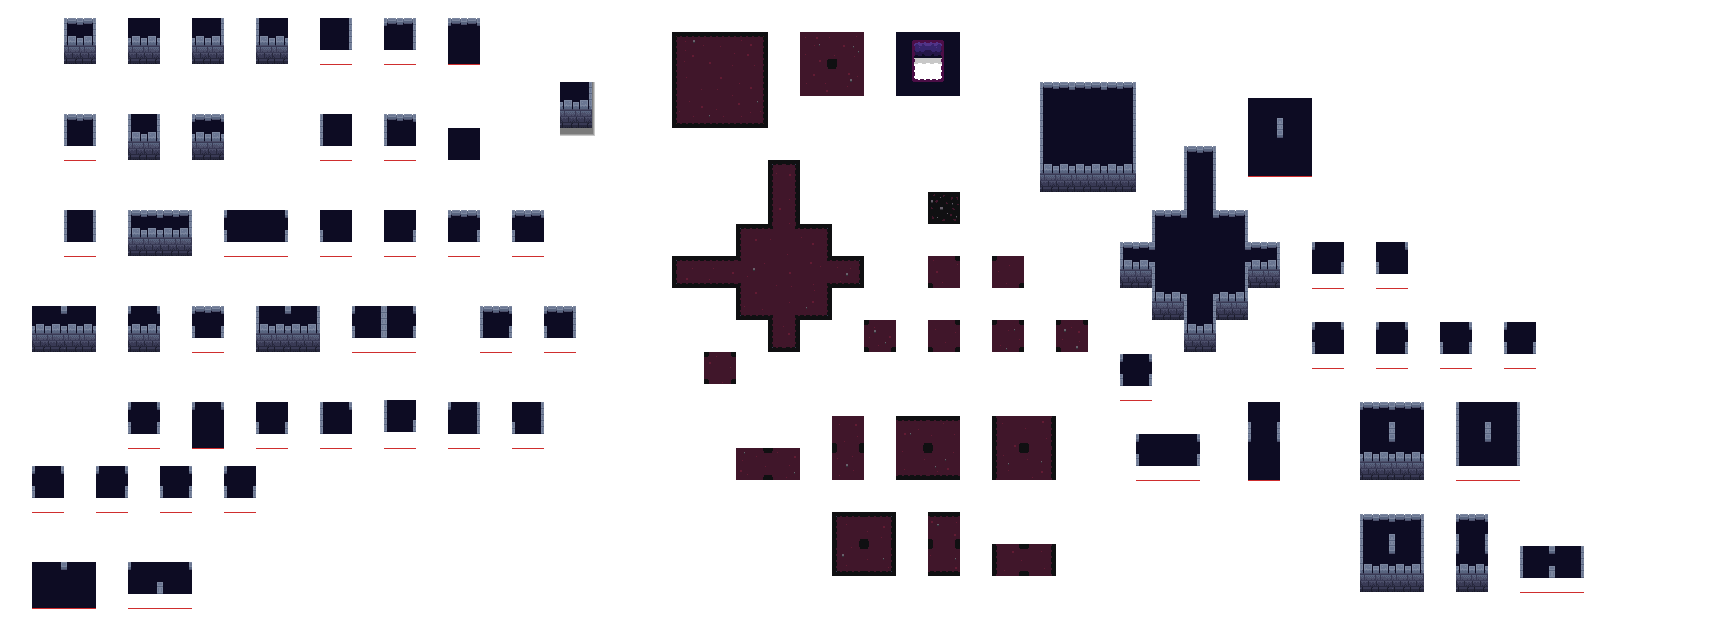
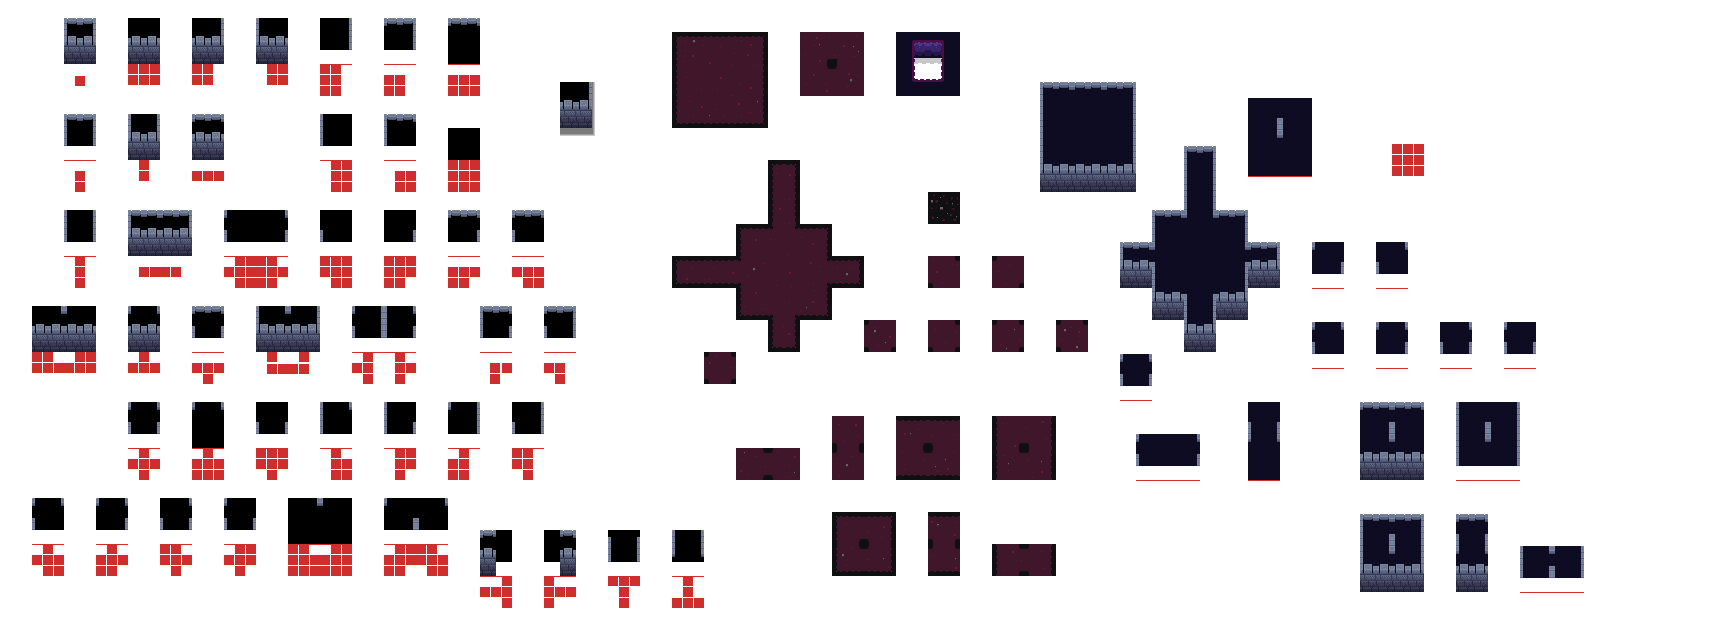
i got autotiling working for the walls. One issue is that when building a new map the frame rate drops for a few seconds

diff --git a/Main/Map/WalkerHead.cs b/Main/Map/WalkerHead.cs
@@ -102,7 +102,7 @@ public partial class WalkerHead : Node2D
     private void BuildFloors()
     {
         var floorArray = new Godot.Collections.Array<Vector2I>(floorSet);
-        GroundMap.SetCellsTerrainConnect(floorArray, Map.GroundTerrainSet, Map.GroundTerrain);
+        GroundMap.SetCellsTerrainConnect(floorArray, Map.GroundTerrainSet, Map.GroundTerrain, false);
     }
 
     private void BuildWalls()
@@ -122,9 +122,11 @@ public partial class WalkerHead : Node2D
         // use this when wall terrain set is ready
         //WallMap.SetCellsTerrainConnect(walls, 0, 1);
 
+        var wallArray = new Godot.Collections.Array<Vector2I>(walls);
+        WallMap.SetCellsTerrainConnect(wallArray, Map.WallTerrainSet, Map.WallTerrain, false);
+
         foreach (var pos in walls)
         {
-            WallMap.SetCell(pos, 5, new Vector2I(12, 6));
             UnderGround.SetCell(pos, Map.UnderGroundSourceId, Map.UnderGroundAtlasCoords);
         }
     }
@@ -181,7 +183,7 @@ public partial class WalkerHead : Node2D
 
     public void DestroyWall(Vector2I pos)
     {
-        WallMap.EraseCell(pos);
+        WallMap.SetCellsTerrainConnect([pos], Map.WallTerrainSet, -1, false);
         main.NotifyWallRemoved(pos);   // keep Main cache in sync
     }
 }
